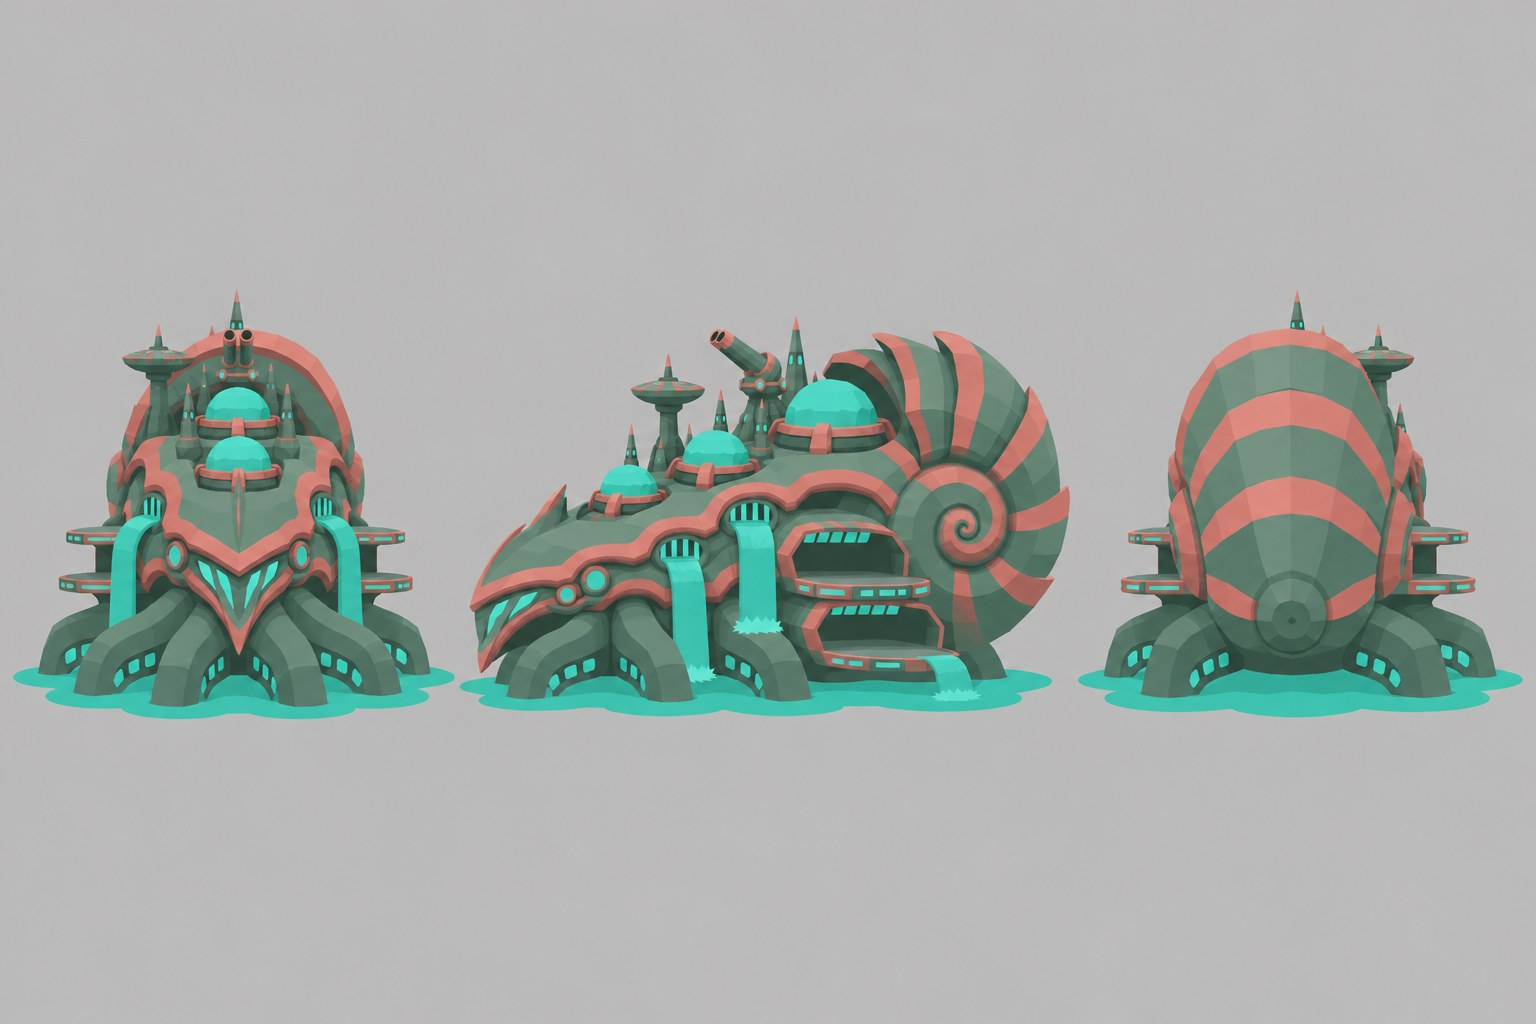
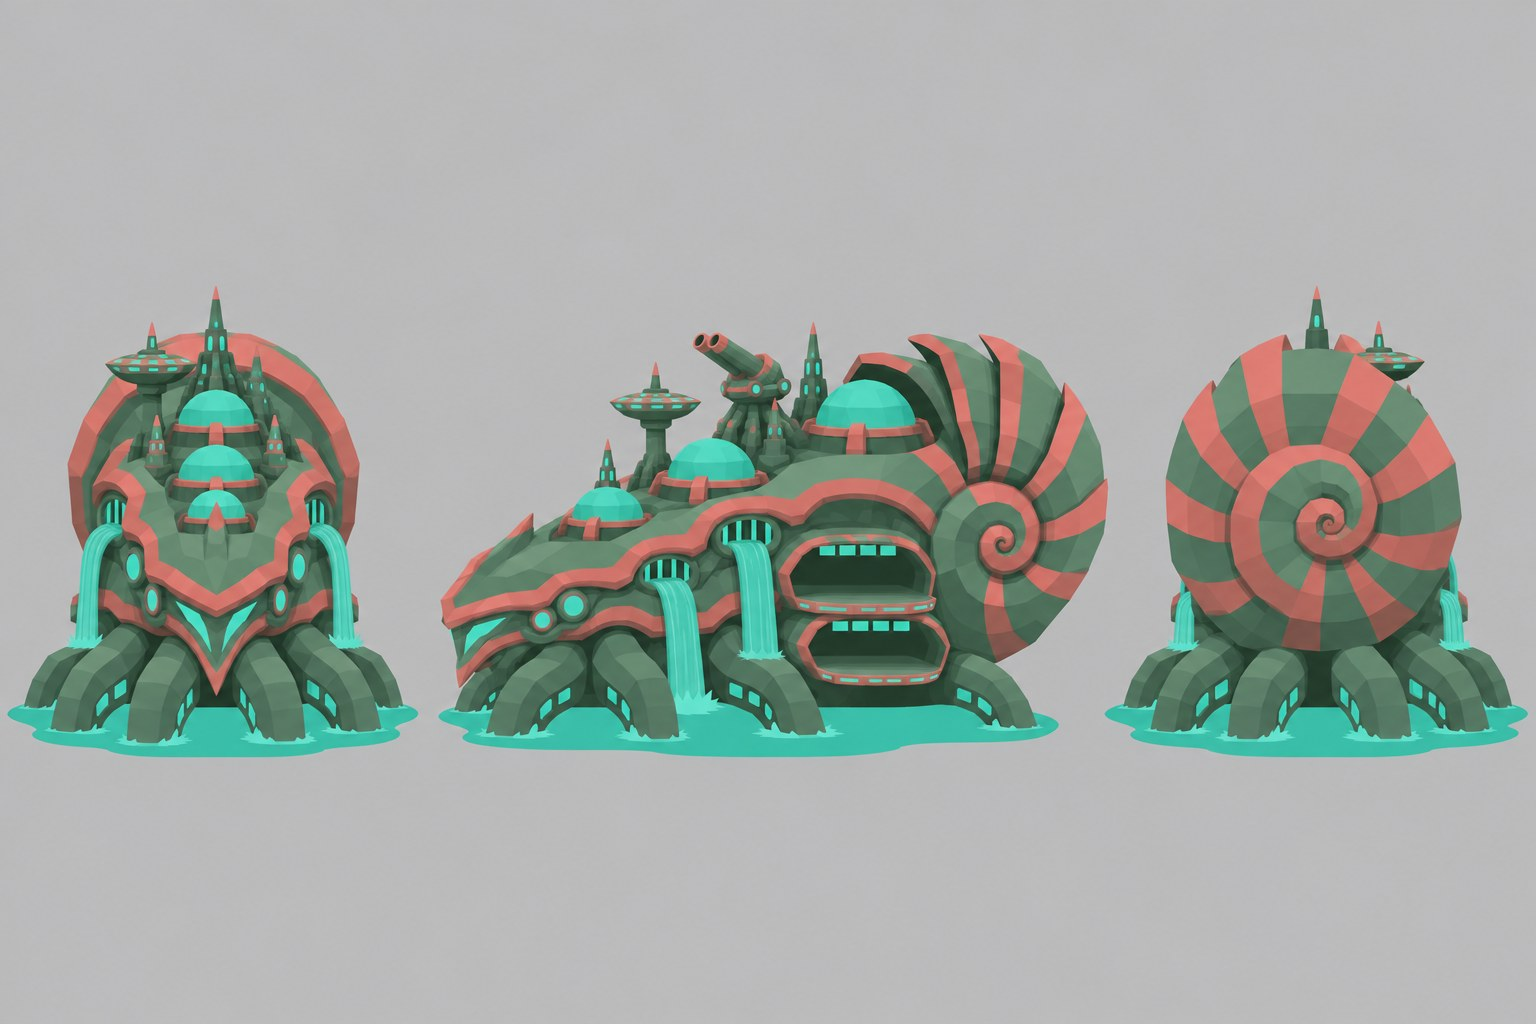
Model sheets for the two HQs and eight buildings, awaiting review
Claude-Session: https://claude.ai/code/session_011tHXKAzD8HvWDijatPpkCi

Changed region(s): [[0.0, 0.2812, 1.0, 0.75]]

diff --git a/rts/docs/art/concept/turnarounds9/README.md b/rts/docs/art/concept/turnarounds9/README.md
@@ -1,0 +1,55 @@
+<!-- rts/docs/art/concept/turnarounds9/README.md: result of the ninth set of model sheets, front, side and back sheets of eight Skai and water base buildings and the two HQs (Great Aerie landed, Grand Shell rooted), made as input for 3D generation and checked against rts/docs/art/CONCEPT_BRIEF.md; images made by rts/tools/ConceptArt/generate.py. -->
+# Turnarounds 9
+
+Model: `gpt-image-2.6-sunburst`, size 1536x1024, edit endpoint, `quality: "high"`. Style text is the turnarounds4 model-sheet text with "building" for "unit" and an added rule that all three views are level elevations at the same scale (the back view is a true rear view, not a top view). Each shot passes one approved multi-building or HQ drawing as its only reference and names the one building to use by position. 11 image requests in total: 10 first attempts, 1 regeneration. PNG originals are kept outside the repository.
+
+Mapping from game building to approved drawing (no mapping needed correcting; the round 16 sheets have a drawing for every job):
+
+| Shot id | Game building (placeholder name) | Reference | Drawing used |
+| --- | --- | --- | --- |
+| skai_perch_depot_sheet | Skai drop-off (Perch Depot) | round16/skai_buildings.jpg | top row, first: canopy crane depot |
+| skai_roost_sheet | Skai supply (Roost) | round16/skai_buildings.jpg | top row, second: small canopy roost with hanging pods |
+| skai_windspire_sheet | Skai tech (Storm Spire) | round16/skai_buildings.jpg | bottom row, first: conifer with ring and bolt |
+| skai_perch_tower_sheet | Skai defence (Arc Turret) | round16/skai_buildings.jpg | bottom row, second: canopy turret with two emitter arms |
+| water_pearl_depot_sheet | water drop-off (Pearl Depot) | round16/water_buildings.jpg | top row, first: coral tree over a doorway with stairs |
+| water_tidepool_sheet | water flood source (Tide Well) | round16/water_buildings.jpg | top row, fourth: hourglass coral tower with a water rim |
+| water_shell_forge_sheet | water tech (Reef Workshop) | round16/water_buildings.jpg | bottom row, first: brain-coral dome with antler crown |
+| water_coral_turret_sheet | water defence (Jet Turret) | round16/water_buildings.jpg | bottom row, second: spiked ring and angled cannon |
+| skai_great_aerie_sheet | Great Aerie, landed | round17/skai_great_aerie_hq.jpg | right drawing (landed) |
+| water_grand_shell_sheet | Grand Shell, rooted | round13/water_grand_shell_hq.jpg | large drawing (rooted) |
+
+Approximate x-ranges of the three views (front, side, back) in the 1536-pixel-wide image, for cropping (est.):
+
+| Shot id | Front | Side | Back |
+| --- | --- | --- | --- |
+| skai_perch_depot_sheet | 20-545 | 555-980 | 1000-1475 |
+| skai_roost_sheet | 75-500 | 600-955 | 1030-1455 |
+| skai_windspire_sheet | 65-520 | 550-985 | 1020-1485 |
+| skai_perch_tower_sheet | 55-500 | 560-935 | 1040-1495 |
+| water_pearl_depot_sheet | 35-520 | 535-985 | 1015-1500 |
+| water_tidepool_sheet | 35-510 | 535-1000 | 1030-1500 |
+| water_shell_forge_sheet | 20-500 | 545-960 | 1010-1480 |
+| water_coral_turret_sheet | 55-460 | 525-980 | 1035-1470 |
+| skai_great_aerie_sheet | 20-515 | 500-1010 | 1025-1515 |
+| water_grand_shell_sheet | 10-400 | 440-1110 | 1105-1500 |
+
+| Shot id | File | Result | Critique |
+| --- | --- | --- | --- |
+| skai_perch_depot_sheet | skai_perch_depot_sheet.jpg | pass | Same crane depot: three diamond canopies, cargo arch with ramp and crates, crane with cargo box on the same side in all three views, talon roots; the back view is a plain closed rear. |
+| skai_roost_sheet | skai_roost_sheet.jpg | pass | Slender talon-rooted tree, three diamond canopies with hanging yellow-banded pods; side view is a believable profile of the same tree. |
+| skai_windspire_sheet | skai_windspire_sheet.jpg | pass (with reservation) | Conifer tiers, yellow stripe, octagonal ring and bolt agree in all views; the ring floats around the upper tree as in the reference, and the side view shows only a flat band. |
+| skai_perch_tower_sheet | skai_perch_tower_sheet.jpg | pass | X-trunk, octagonal platform, canopy and two emitter arms agree; the side view shows one arm pointing left, as expected for a forward-pointing pair. |
+| water_pearl_depot_sheet | water_pearl_depot_sheet.jpg | pass | Coral canopy tree over a turquoise door with stairs on the front; the side shows the stair rail and the back a closed rear arch. Coral reads dusty pink, no white. |
+| water_tidepool_sheet | water_tidepool_sheet.jpg | pass | Hourglass coral tower with turquoise stripes, scalloped rim and water channels at the base; the three views agree and are near-symmetric. |
+| water_shell_forge_sheet | water_shell_forge_sheet.jpg | pass | Brain-coral dome with antler crown and polyps; door only on the front, plain back. |
+| water_coral_turret_sheet | water_coral_turret_sheet.jpg | pass (with reservation) | Spiked ring, armoured mount and angled cannon agree; the cannon points toward the viewer in the front view and left in the side view. The back view shows the cannon as a stub with its muzzle ring seen end-on above the mount, which is a loose reading of a barrel pointing away. |
+| skai_great_aerie_sheet | skai_great_aerie_sheet.jpg | pass (with reservation) | Landed on four taloned legs with ramp, dome, mast, rim vanes all one way, no workers. The four propellers are drawn as vents on the side of the hull (as in the round 17 reference), not flat underneath, and only two turrets and no landing pads show on the deck. |
+| water_grand_shell_sheet | water_grand_shell_sheet.jpg | pass (with reservation) | Rooted Grand Shell without workers: head, three domes, spires, twin gun, two waterfalls, two recessed garage decks, spiral shell, eight tentacle legs. The back view shows the shell face-on as a spiral, which the reference never shows, so it is a guess; the shell banding is a salmon coral and reads close to red, as in the reference. |
+
+## Changed prompts
+
+Grand Shell: the first attempt drew the two garage decks as wide flat shelves sticking out sideways in the front and back views, while the side view had them recessed. Appended before the backdrop text: "RETRY NOTES: in the previous attempt the FRONT and BACK views showed the garage decks as wide flat shelves sticking out sideways from the body. They must not: the two garage decks are recessed openings cut into the shell's flank, flush with the body, so in the FRONT and BACK views the silhouette has NO shelves or platforms sticking out sideways; ..." `shots.json` holds the final prompt.
+
+## Tool changes
+
+None; `rts/tools/ConceptArt/generate.py` was used unchanged.

diff --git a/rts/docs/CHANGELOG.md b/rts/docs/CHANGELOG.md
@@ -46,6 +46,8 @@ All notable changes to this project are recorded here. The format follows [Keep 
 
 ### Added
 
+- `docs/art/concept/turnarounds9/`: front, side and back model sheets for the Great Aerie (landed), the Grand Shell (rooted) and the eight buildings in the game data (Roost, Windspire, Perch Tower, Perch Depot, Tidepool, Shell Forge, Coral Turret, Pearl Depot), drawn from the approved round 13, 16 and 17 art; awaiting the developer's marks before 3D generation.
+
 - The Reef Runner model (`docs/art/models/batch1/water_reef_runner.glb`) was kept by the developer on 17 Nov 2026 with no changes.
 
 - Spec `docs/specs/skirmish_ai_v3.md` (stages 1 to 3 of P-004) in four packages: A harness `--ladder` and `--response` modes, `scripts/ai_eval/ai_eval.json`, responder profiles and the Reef Runner (`water.reef_runner`, placeholder numbers mirroring the Windrunner's); B scouting and the enemy model; C fight predictor, counter-mix computed from unit data, tech on demand, static defence; D attacks and retreats by the predictor, target choice, measured defence, unit control. Old and new behaviour coexist by profile switches; no `src/Sim` change.
